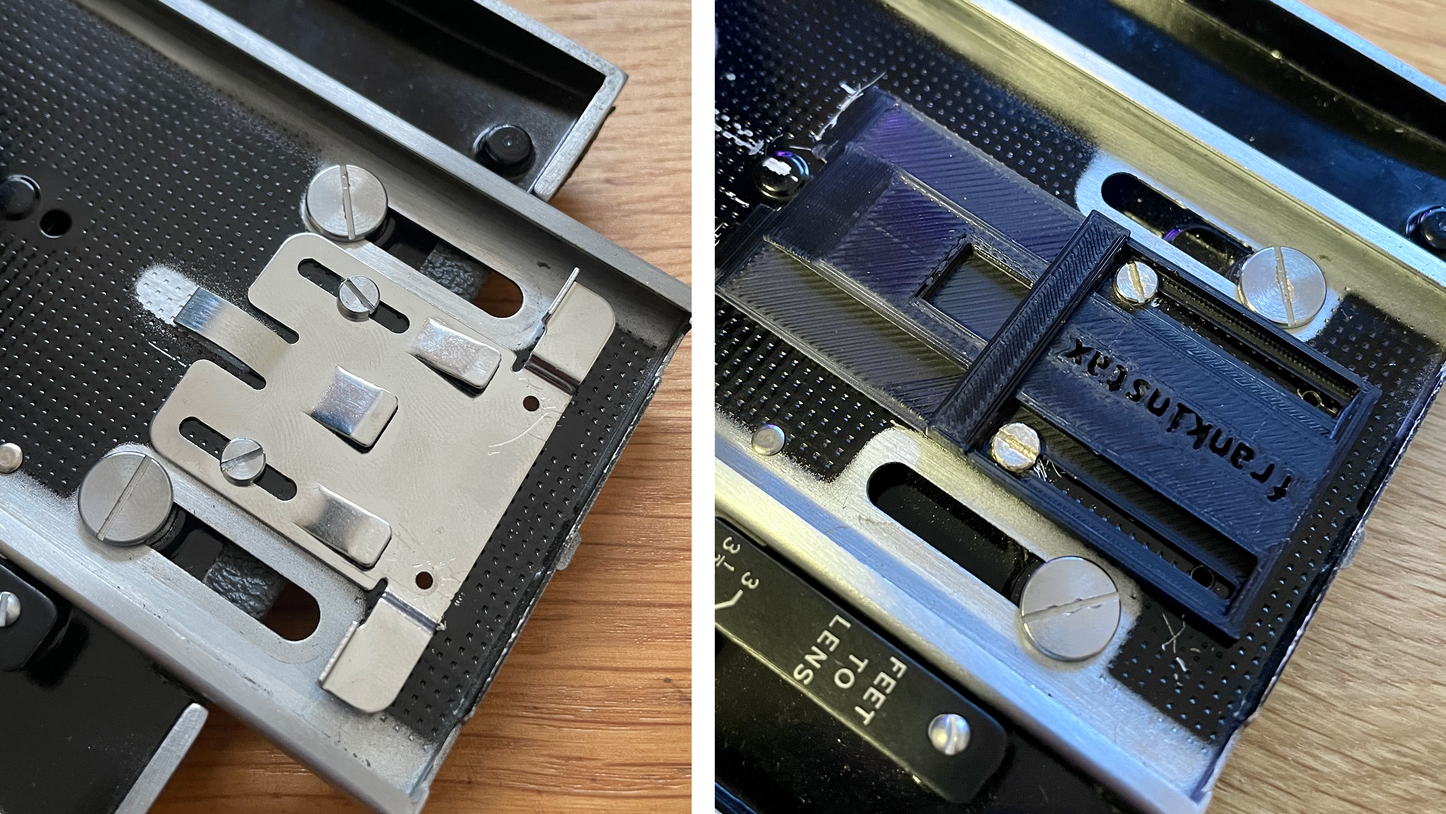
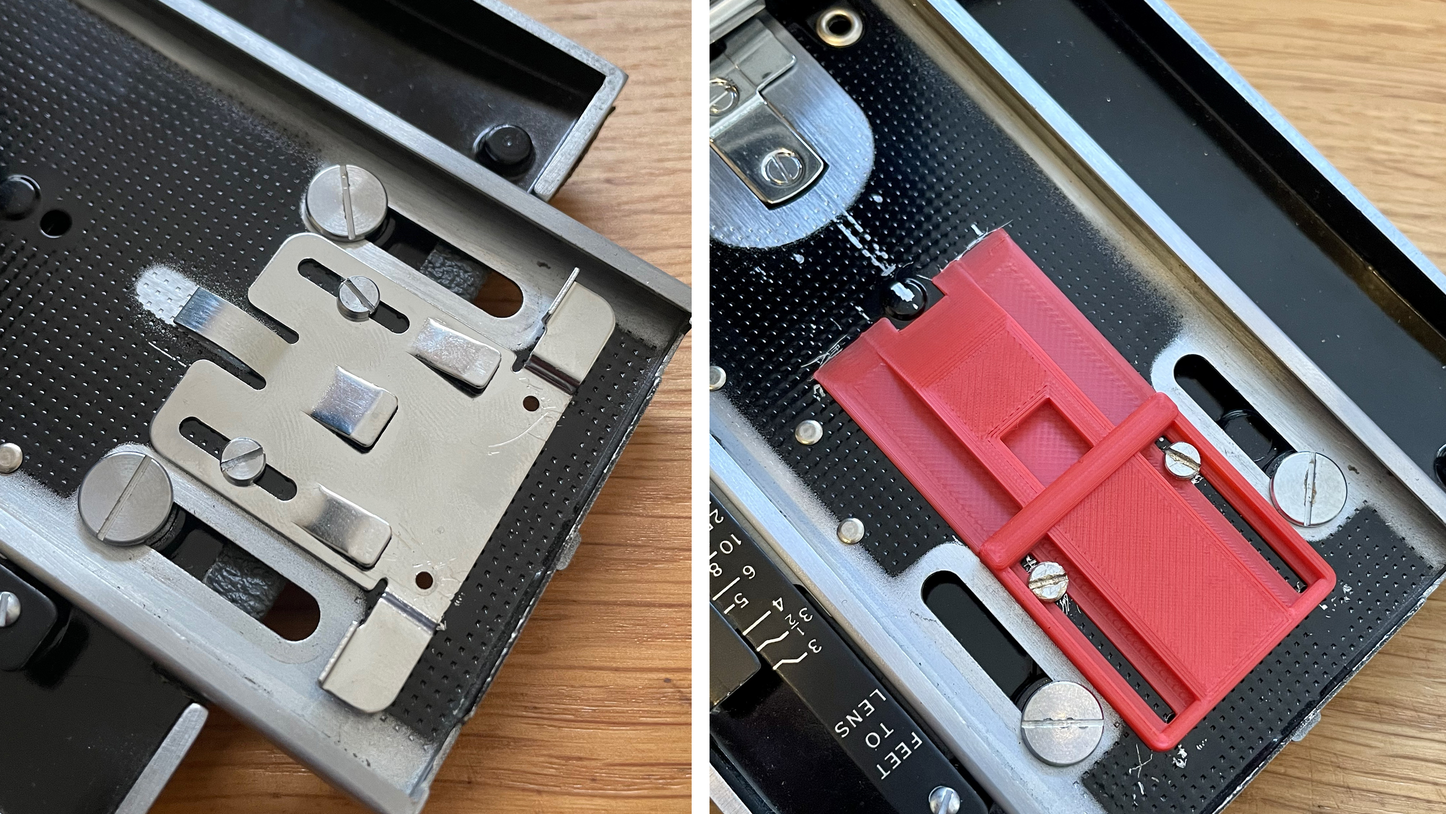
Update STLs and build instructions

diff --git a/writing/ph/110conversion.md b/writing/ph/110conversion.md
@@ -57,16 +57,19 @@ This one's optional, as you may opt to order these from a 3D printing company in
 {% include image.html url="/assets/wr/110/1.1.jpeg" %}
 </div>
 
-I used a Creality Ender 3 v2, which is an incredible machine for the price. [Cura slicer](https://ultimaker.com/software/ultimaker-cura) was used to slice my STL files to G-code. Your temperatures will vary depending on the material you choose to print with, but I think these settings will help you get some good results:
+I used a Creality Ender 3 v2, which is an incredible machine for the price. [Cura slicer](https://ultimaker.com/software/ultimaker-cura) was used to slice my STL files to G-code. Your temperatures will vary depending on the material you choose to print with, but I think these settings will help you get results that are both pretty and strong (but will take forever to print):
 * **Layer height**: 0.12mm
-* **Wall thickness**: 0.8mm
-* **Top/bottom thickness**: 1mm
+* **Wall thickness**: 1.2mm
+* **Wall line count**: 6
+* **Top/bottom thickness**: 0.84mm
 * **Infill density**: 35%
 * **Generate support**: Yes
 * **Support placement**: Everywhere
+* **Support type**: Line
+* **Support density**: 10%
 * **Build plate adhesion type**: Brim
 
-I used a brand of filament from Amazon called "Eryone", and decided on the "Jet Black" colour. I set the hot-end to 200 degrees celsius, and my bed to 50 degrees celsius.
+I used a brand of filament from Amazon called "Eryone", and decided on the "Jet Black" colour for the bracket, and red for the grips and inifinity stop. I set the hot-end to 200 degrees celsius, and my bed starts out at 60 for the initial layer, then eases down to 50 degrees celsius for the rest. The fan is disabled for the first 7 layers.
 
 ### Step two: remove the back door(s) and film holder
 Both the rear door and inner door are held in place with a thin rod threaded through the hinge. Getting it out is as easy as poking the smallest screwdriver (or even better, a pick) that fits into the topmost hole of the hinge. If you're lucky, you should just be able to push out the rod, grab it from the bottom with a pair of pliers, and pull it all the way out. If not, you'll need to gently tap the top of your screwdriver (or pick) with a hammer until it peeks out. Do this with the rear door first, then the inner door, and set them aside (or toss them in the trash as you won't be needing them again). Keep the rods, you'll need at least one of them if you decide to use the grip. 
@@ -191,6 +194,13 @@ If you had the patience to print the very intricate grips, fitting them is quite
 
 For both grips, press-fit the hinge into place. Then you'll need to thread the rod through the hinge. Start from the bottom. I've found it can be a little tight, so make sure that everything is aligned, and push forcefully, but carefully. I use the pliers to help get some grip on the rod, and gently tap the last bit into place.
 
+<div style="text-align:center">
+{% include image-inline.html url="/assets/wr/110/27.jpeg" description="This hole will help keep things in place" %}
+{% include image-inline.html url="/assets/wr/110/28.jpeg" description="Pretty obvious now that you look at it isn't it?" %}
+{% include image-inline.html url="/assets/wr/110/29.jpeg" description="This hole will help keep things in place" %}
+{% include image-inline.html url="/assets/wr/110/30.jpeg" description="Pretty obvious now that you look at it isn't it?" %}
+</div>
+
 You'll notice the right grip has a hole in it. This is to optionally fit a shutter release cable to move the shutter to a less awkward place. The trade-off here for the moment is that you'll need attach/remove the cable release from the lens every time you collapse or open the camera.
 
 Also note that, if you opt to use the grips, you won't be able to use the Lomograflok's darkslide, so remove that and put it somewhere safe.
@@ -237,7 +247,7 @@ _A final note on the Lomograflok darkslide_: If you're not using the left grip, 
 I really hope you enjoy shooting your newly converted camera [as much as I do](https://www.instagram.com/frankinstax/). It's a real head-turner and conversation starter, and the perfect way to disarm subjects for very natural portraits. Even though the conversion is straightforward, it took a lot of effort to get here. The infinity stop went through about 12 iterations, and the bracket through about 8 (all printed). At the end of the day, apart from really wanting a decent Instax wide camera, I did this to share it all for others to reproduce and improve on. 
 
 <div style="text-align:center">
-{% include image.html url="/assets/wr/110/26.jpeg" description="Sorry about the messy desk, but it really is difficult to get this thing all in one picture" %}
+{% include image.html url="/assets/wr/110/26.jpeg" description="It really is quite difficult to get this thing all in one picture" %}
 </div>
 
 This has been a very fulfilling project that has come a long way, but it's not done yet. As tidy as it is, it's not very ergonomic, especially with the hinges sticking out like that.
